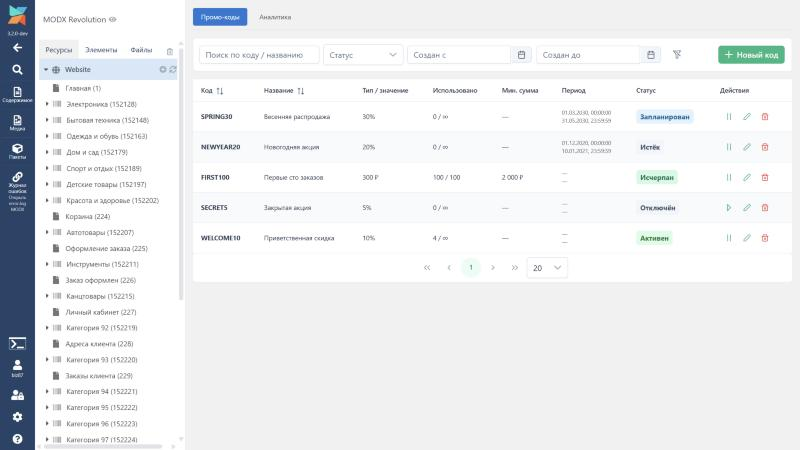
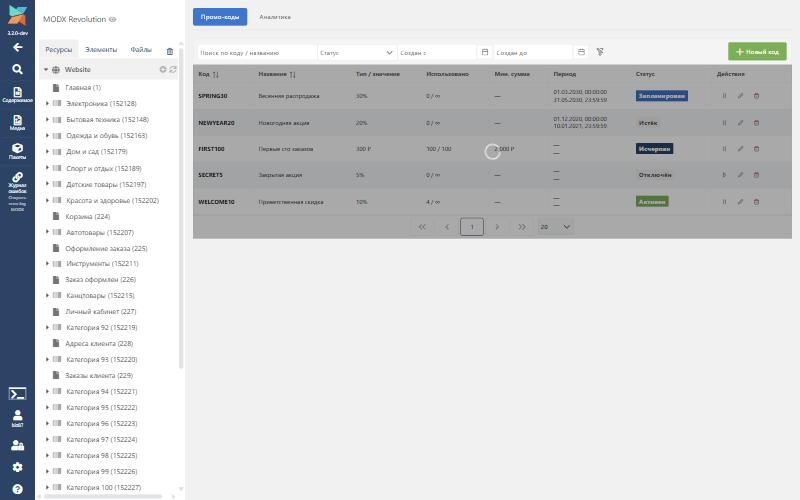
docs(ms3promocode): релиз 1.1.0-beta1 + обновлённые скриншоты админки
Changelog:
- changelog/1.1.0-beta1.md — подробный release note (ломающие изменения,
  исправления, security, апгрейд).
- changelog/index.md — версия добавлена в таблицу, обновлён превью-блок.

Главный лендинг:
- index.md — системные требования приведены в соответствие с новыми
  минимумами (MiniShop3 >= 1.13.0-beta1, pdoTools >= 3.0.0,
  VueTools >= 1.2.0); в sidebar items добавлена ссылка на 1.1.0-beta1.

Quick-start:
- quick-start.md — таблица зависимостей заменила маркированный список;
  явно указано, что с 1.1.0-beta1 Package Manager откажет на старых
  версиях.

Скриншоты:
- index-codes-list.jpg, interface-analytics.jpg,
  interface-order-tab-applied.jpg, quick-start-step2-new-code.jpg —
  пересняты под темой modx из VueTools.
- Остальные 4 (Installer, корзина Шаг 4, пустая/применённая форма
  сниппета) не менялись — фронтенд корзины и Installer MODX не
  затронуты миграцией темы.

diff --git a/docs/components/ms3promocode/changelog/1.1.0-beta1.md b/docs/components/ms3promocode/changelog/1.1.0-beta1.md
@@ -1,0 +1,56 @@
+# 1.1.0-beta1
+
+**Дата релиза:** 4 ноября 2026
+
+Минорный релиз: багфиксы корзины, security-слой API, централизованная тема PrimeVue через VueTools.
+
+## Ломающие изменения
+
+**Повышены минимальные требования.** Package Manager теперь откажет на установке, если какая-то из зависимостей старее. Ранее ошибка всплывала только в рантайме.
+
+| Пакет       | Было                   | Стало                |
+|-------------|------------------------|----------------------|
+| PHP         | ≥ 8.2                  | ≥ 8.2                |
+| MODX        | ≥ 3.0.0                | ≥ 3.0.0              |
+| MiniShop3   | не декларировалась     | ≥ 1.13.0-beta1       |
+| pdoTools    | не декларировалась     | ≥ 3.0.0              |
+| VueTools    | не декларировалась     | ≥ 1.2.0              |
+
+**Vue-админка перешла на тему из VueTools.** Тема больше не прошита: preset берётся из системной настройки `vuetools.theme` (`aura` или `modx`). PrimeVue, Vue и Pinia идут через Import Map VueTools — шарятся с MS3 и остальными Vue-компонентами. Бандл админки упал с ~1040 КБ до ~65 КБ (gzip 22 КБ). Переименования PrimeVue 4.5: `Dropdown` → `Select`, `Chips` → `InputChips`.
+
+## Исправлено
+
+**Двойная скидка при смене количества позиции.** Инвариант snapshot'а из 1.0.1-beta1 (`live_price + discount_amount / count ≈ original_price`) ломался при смене количества: MiniShop3 оставляет цену за единицу (уже со скидкой) и пересчитывает только `cost`. Snapshot признавался устаревшим, и `syncAfterCartChange()` накладывал скидку второй раз. Теперь snapshot хранит цену, которую поставил сам apply (`discounted_price`), и проверяется по ней — смена количества её не меняет.
+
+**`min_order_amount` сверялся с суммой уже со скидкой.** `ValidationService::validateForOrder()` брал `msOrder.cart_cost` черновика, а там после apply сумма со скидкой. Теперь `apply()` и `validate()` передают сумму позиций по исходным ценам.
+
+**Analytics-процессор `GetLog` возвращал всегда пустой журнал.** SELECT ссылался на `Order.status` — колонка называется `status_id`. SQL молча падал, API отдавал `{success: true, total: N, results: []}`. KPI-карточки показывали число, журнал был пуст.
+
+**Резолвер статистики установки не подключался в сборку.** Файл был в репозитории с первого релиза, но в массив `$resolvers` в `build.php` не входил — ни одна установка не отправляла метрики на `metrics.modx.pro`. Заодно резолвер приведён к эталону: правильный префикс `ms3_` на `install_type` / `previous_version`, `package_version` из подписи транспорта, поддержка `metrics_optout`, reconnect к БД.
+
+**JS API: `destroy()` не очищал локальные подписки через `on()`.** Объект listeners жил в замыкании модуля — в SPA при цикле `destroy → init` обработчики накапливались.
+
+**JS API: `remove()` и `validate()` молчали при не-success ответе.** `apply()` эмитил `error`, две соседние функции — только из `catch` (сетевой сбой). Для `validate()` дополнительно учитывается бизнес-ответ `{valid: false, reason, message}` — теперь эмитится отдельная ветка `error` с `code = data.reason`.
+
+**`CodesView` confirm-диалог вводил в заблуждение.** Диалог обещал, что удаление кода не затронет историю применений. По факту `composites` с `owner='local'` в модели `msPromoCode` даёт cascade delete всех `msPromoCodeUsage`. Текст предупреждения исправлен; корневая смена семантики (SET NULL или disallow delete) оставлена в бэклоге.
+
+## Безопасность
+
+**CORS, rate limiting и проверка доступности сервиса теперь действуют для `/api/v1/promo/*`.** Группа роутов имела только `TokenMiddleware`: OPTIONS preflight возвращал 405 (SPA с другого origin не работал), `/apply` можно было долбить без ограничения. Стек приведён к паттерну MS3: `cors → rateLimit → serviceCheck → token`. `ServiceCheckMiddleware` возвращает 503 Service unavailable, если фасад MS3 не зарегистрирован — иначе `PromoCodeController` падал необработанным исключением.
+
+## Добавлено
+
+- **Декларация зависимостей в transport-пакете** (см. таблицу выше).
+- **Хелпер темы и фабрика Vue-приложения.** Одна точка настройки PrimeVue, Pinia и сервисов диалогов.
+- **Проверка версии VueTools на лету.** Если в Import Map нет ключа `vuetools/theme`, админка покажет модальное окно MODX с сообщением «требуется VueTools >= 1.2.0» вместо немой ошибки ES-модуля в консоли.
+- **Cache-bust по `filemtime`** для JS и CSS Vue-админки. Без него браузер держал старый бандл после пересборки под той же версией пакета.
+
+## Апгрейд
+
+1. Обновить зависимости до минимумов из таблицы выше.
+2. Переустановить пакет через Package Manager — новые события плагина и новый резолвер статистики требуют этого.
+3. Публичная поверхность (сниппет `ms3PromoCodeForm`, headless JS API, web API) не менялась — свои чанки и override-ассеты продолжат работать.
+
+## Issues и pull requests
+
+Релиз закрывает: [#1](https://github.com/biz87/ms3PromoCode/pull/1), [#2](https://github.com/biz87/ms3PromoCode/issues/2), [#3](https://github.com/biz87/ms3PromoCode/issues/3), [#4](https://github.com/biz87/ms3PromoCode/issues/4), [#5](https://github.com/biz87/ms3PromoCode/issues/5), [#6](https://github.com/biz87/ms3PromoCode/issues/6), [#12](https://github.com/biz87/ms3PromoCode/issues/12).

diff --git a/docs/components/ms3promocode/changelog/index.md b/docs/components/ms3promocode/changelog/index.md
@@ -2,9 +2,33 @@
 
 ## Версии
 
-| Версия                       | Дата       | Описание                                |
-|------------------------------|------------|-----------------------------------------|
-| [1.0.0-beta1](1.0.0-beta1)   | 2026-04-21 | Первый публичный релиз                  |
+| Версия                       | Дата       | Описание                                                             |
+|------------------------------|------------|----------------------------------------------------------------------|
+| [1.1.0-beta1](1.1.0-beta1)   | 2026-11-04 | Багфиксы корзины, security-слой API, тема PrimeVue из VueTools       |
+| [1.0.0-beta1](1.0.0-beta1)   | 2026-04-21 | Первый публичный релиз                                               |
+
+## ms3PromoCode 1.1.0-beta1
+
+Минорный релиз.
+
+### Ломающие изменения
+
+- Минимальные версии: MiniShop3 ≥ 1.13.0-beta1, pdoTools ≥ 3.0.0, VueTools ≥ 1.2.0. Package Manager откажет на старых версиях.
+- Vue-админка больше не прошивает тему — preset берётся из `vuetools.theme` (`aura` / `modx`). PrimeVue через Import Map, бандл ~1 МБ → ~65 КБ.
+
+### Исправлено
+
+- Двойная скидка при смене количества позиции и min_order от уже сниженной суммы.
+- GetLog возвращал всегда пустой журнал (status → status_id).
+- Статистика установки не отправлялась — резолвер был в репо, но не в сборке.
+- JS API: `destroy()` не очищал подписки через `on()`; `remove()` / `validate()` молчали при не-success ответе.
+- Диалог удаления кода теперь честно предупреждает про каскадное удаление истории применений.
+
+### Безопасность
+
+- CORS, rate limiting и `ServiceCheckMiddleware` привязаны к `/api/v1/promo/*`.
+
+[Подробнее о версии 1.1.0-beta1 →](1.1.0-beta1)
 
 ## ms3PromoCode 1.0.0-beta1
 

diff --git a/docs/components/ms3promocode/index.md b/docs/components/ms3promocode/index.md
@@ -57,6 +57,7 @@ items: [
     text: 'История версий',
     link: 'changelog/',
     items: [
+      { text: '1.1.0-beta1', link: 'changelog/1.1.0-beta1' },
       { text: '1.0.0-beta1', link: 'changelog/1.0.0-beta1' },
     ],
   },
@@ -89,18 +90,16 @@ categories: discounts
 
 ## Системные требования
 
-| Требование       | Версия      |
-|------------------|-------------|
-| MODX Revolution  | 3.0+        |
-| MiniShop3        | 1.10+       |
-| PHP              | 8.2+        |
-| MySQL / MariaDB  | 8.0+ / 10.3+|
+Зависимости декларированы в transport-пакете с 1.1.0-beta1 — Package Manager откажет на установке, если минимумы не выполнены.
 
-### Зависимости
-
-- **MiniShop3** — основа магазина: корзина и заказы.
-- **pdoTools** — отрисовка фронтенд-чанка через Fenom.
-- **[VueTools](/components/vuetools/)** — админ-панель.
+| Требование                          | Версия              | Для чего нужен                                         |
+|-------------------------------------|---------------------|--------------------------------------------------------|
+| MODX Revolution                     | 3.0+                | Ядро                                                   |
+| PHP                                 | 8.2+                | Backend компонента                                     |
+| MySQL / MariaDB                     | 8.0+ / 10.3+        | БД                                                     |
+| [MiniShop3](/components/minishop3/) | 1.13.0-beta1+       | Корзина и заказы, MS3 Router, middleware               |
+| pdoTools                            | 3.0.0+              | Fenom-рендер фронтенд-чанка                            |
+| [VueTools](/components/vuetools/)   | 1.2.0+              | Vue-админка через Import Map, тема `vuetools.theme`    |
 
 ## Установка
 

diff --git a/docs/components/ms3promocode/quick-start.md b/docs/components/ms3promocode/quick-start.md
@@ -2,11 +2,15 @@
 
 ## Шаг 1: Установка
 
-Установите пакет через **Extras → Installer**. Package Manager не проверит зависимости — убедитесь заранее, что они стоят ([issue #4](https://github.com/biz87/ms3PromoCode/issues/4)):
+Установите пакет через **Extras → Installer**. С 1.1.0-beta1 Package Manager сам откажет на несовместимых версиях; для уверенности обновите зависимости заранее:
 
-- MiniShop3
-- pdoTools
-- VueTools
+| Пакет     | Минимум        | Для чего нужен                                                    |
+|-----------|----------------|-------------------------------------------------------------------|
+| PHP       | 8.2            | Весь backend компонента                                           |
+| MODX      | 3.0.0          | Ядро                                                              |
+| MiniShop3 | 1.13.0-beta1   | Response envelope + `RateLimitStoreFactory` в MS3 Router          |
+| pdoTools  | 3.0.0          | FQN `ModxPro\PdoTools\Fetch` в сниппете `ms3PromoCodeForm`         |
+| VueTools  | 1.2.0          | `@vuetools/useTheme` + ключ `vuetools/theme` в Import Map         |
 
 Phinx-миграции отработают автоматически и создадут таблицы `modx_ms3_promo_codes` и `modx_ms3_promo_code_usages`.
 
